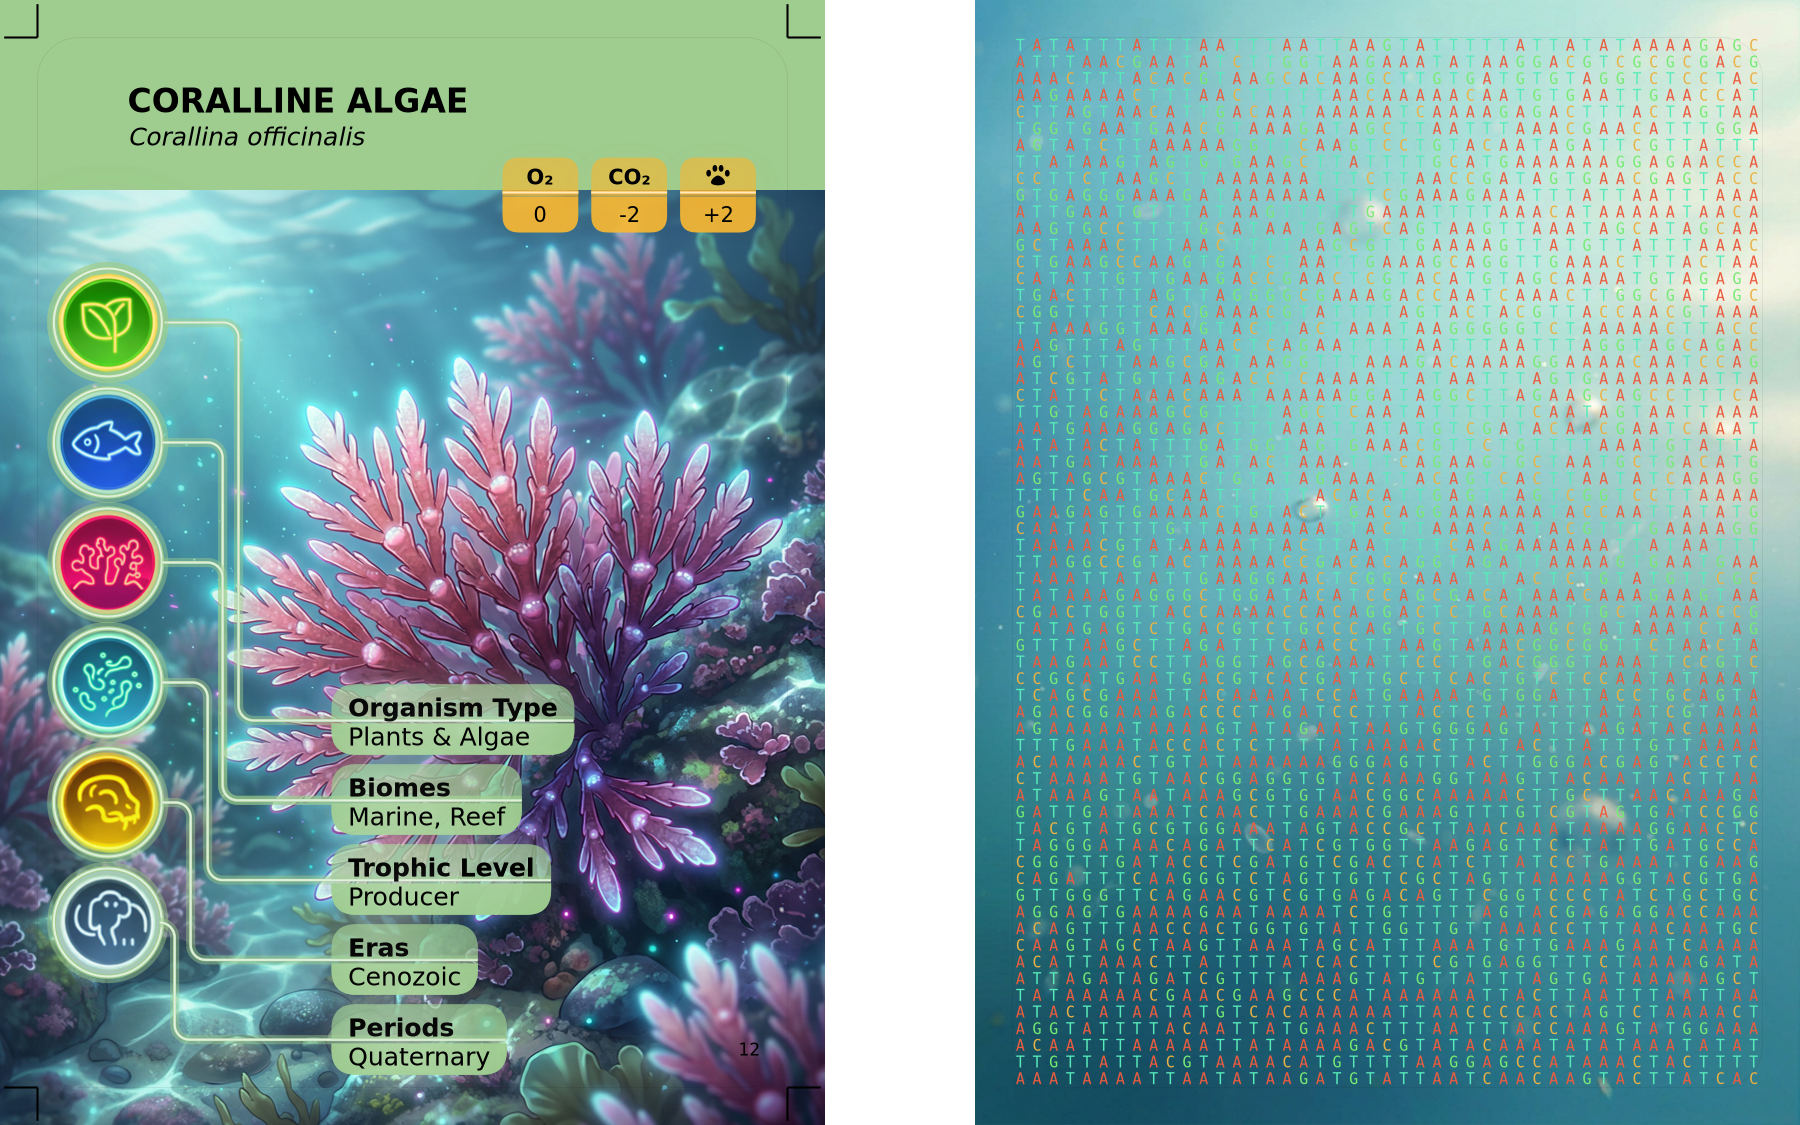
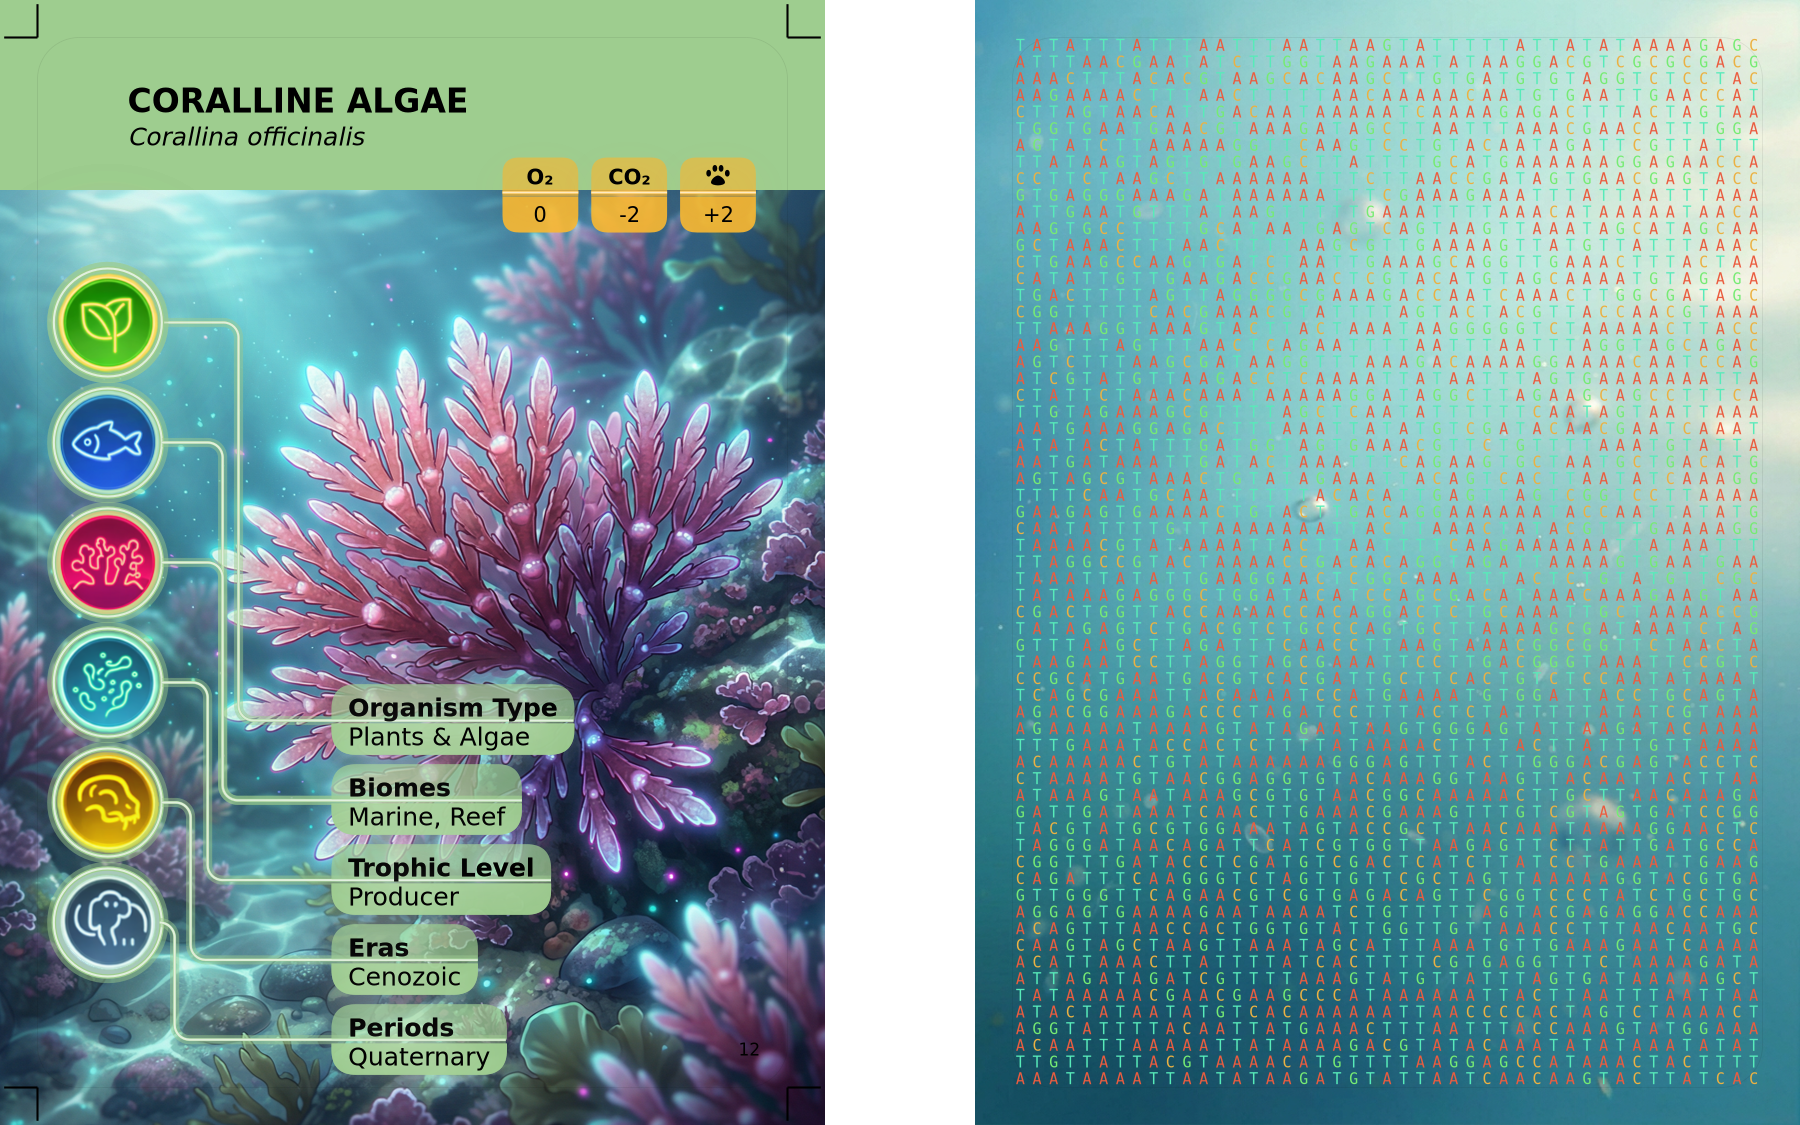
Update manifest and add handling for Card 12 and Card 13

Changed region(s): [[0.0, 0.1867, 0.4667, 1.0], [0.0, 0.1556, 0.2178, 0.3111], [0.2489, 0.1556, 0.28, 0.1867]]

diff --git a/game/lib/cards/layout-png.js b/game/lib/cards/layout-png.js
@@ -60,6 +60,8 @@ async function drawCardPNG(ctx, xPt, yPt, card, scale, options = {}) {
   const isCard4 = (card && card.card_label === 'Card 4') ||
     ((card && card.scientific_name || '').toLowerCase() === 'escherichia coli');
   const isCard6 = card && card.card_label === 'Card 6';
+  const isCard12 = card && card.card_label === 'Card 12';
+  const isCard13 = card && card.card_label === 'Card 13';
   const isCard21 = (card && card.card_label === 'Card 21') ||
     ((card && card.scientific_name || '').toLowerCase() === 'quercus robur');
   const isCard29 = card && card.card_label === 'Card 29';
@@ -174,6 +176,9 @@ async function drawCardPNG(ctx, xPt, yPt, card, scale, options = {}) {
     if (isCard6) {
       mainPhotoY -= 40;
     }
+    if (isCard12) {
+      mainPhotoY -= 40;
+    }
     if (isCard21) {
       mainPhotoX += 25;
     }
@@ -224,6 +229,8 @@ async function drawCardPNG(ctx, xPt, yPt, card, scale, options = {}) {
       mainPhotoOptions.photoScaleMultiplier = 0.96;
     } else if (isCard3) {
       mainPhotoOptions.photoScaleMultiplier = 1.10;
+    } else if (isCard13) {
+      mainPhotoOptions.photoScaleMultiplier = 0.96;
     } else if (isCard4) {
       mainPhotoOptions.photoScaleMultiplier = 1.00;
     } else if (isCard21) {
